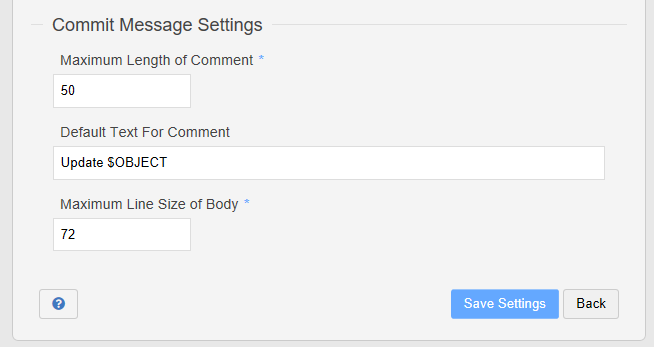
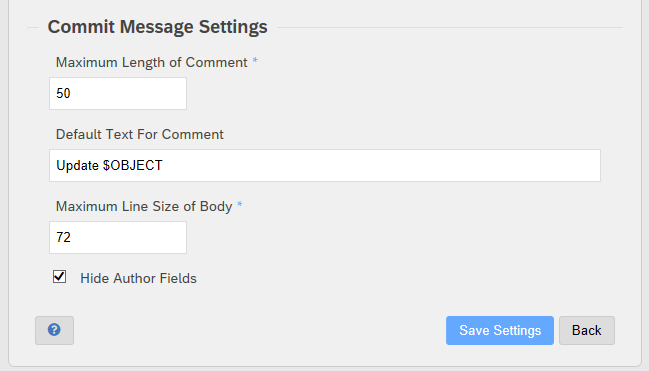
Commit page: option to hide author fields (#5171)
* Commit page: option to hide author fields

The vast majority of time the committer is the same as the author (I assume). This adds an option to hide the author name and email fields on the commit form.

* Update docs

* Update docs

diff --git a/docs/guide-settings-global.md b/docs/guide-settings-global.md
@@ -30,6 +30,8 @@ to 50/72 according to the "[Rule of Well Formed Git Commit Messages](https://www
 
 You can also maintain a default for the comment. Variables $OBJECT and $FILE will be replaced by the number of objects or files contained in the commit.
 
+By default, the [commit page](https://docs.abapgit.org/guide-stage-commit.html#commit) contains fields for "Author Name" and "Author Email" which you can enter in case they are different from the committer. If the author is always the same as the committer, these fields are not required and you can use the "Hide Author Fields" option to remove them from on the commit page.
+
 ## Development Internal Settings
 
 Note: These settings are only available when using the [Development Version](https://docs.abapgit.org/guide-development-version.html) of abapGit.
